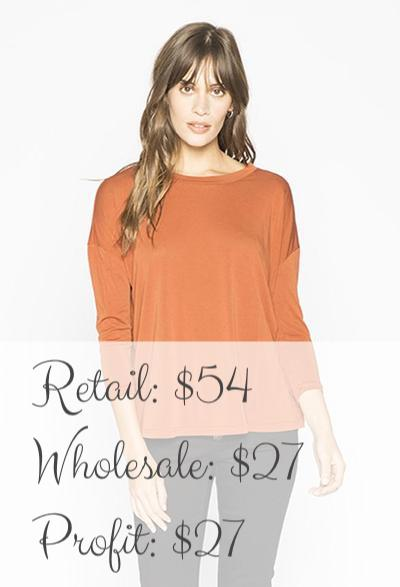
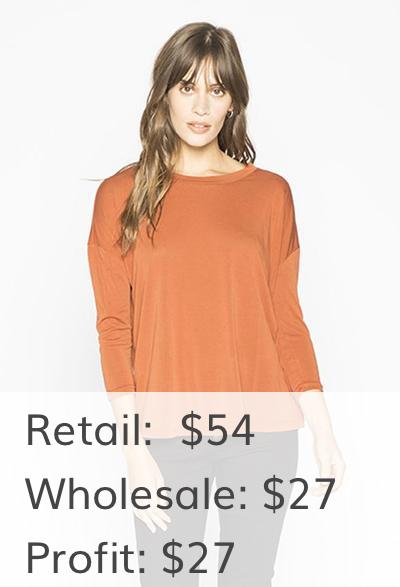
Update Sonlet Shops Template
- Changes the font of the text overlay on the images
- Changes the CTA to be more clear
- Adds a tagline under the logo
- Changes sweaters to layers in href & hero image
- Removes html that was commented out and showing up in yahoo mail

Changed region(s): [[0.06, 0.5826, 0.84, 1.0], [0.66, 0.9813, 0.69, 1.0]]

diff --git a/email_marketing/shops_waitlist/template_shops_email.html b/email_marketing/shops_waitlist/template_shops_email.html
@@ -1,4 +1,6 @@
 <style>
+  @import url('https://fonts.googleapis.com/css?family=Clicker+Script|Muli');
+  
   body {
     color: #111;
     background-color: #f2f2f2;
@@ -10,108 +12,80 @@
   
 </style>
 <body>
-  
-  <style>
-    @import url('https://fonts.googleapis.com/css?family=Clicker+Script|Muli');
-  </style>
   <div id="email-container" style="width: 90%; max-width: 900px; margin: 0 auto; background-color: #ffffff;">
-    <!--Hero Image->
-    <div id="hero-header"style="background-color:#ffffff;border-top:1px solid #ccc;border-bottom:1px solid #ccc;">
-      <img src="https://wyattgrantham.com/marketing/Images/190221_ss_hero.png" style="width: 100%">
-    </div>
-    
-    <!--Hero Subtitle->
-    <div style="margin:0 auto;min-width:320px; max-width: 600px; word-wrap:break-word;word-break:break-word; text-align: center;">
-      <img src="https://wyattgrantham.com/marketing/Images/ss_hero_subtitle.png" style="width: 100%; margin-top: 20px;">
-      
-      <p style="font-family: 'Muli', sans-serif; text-align: center; margin: 0 auto;">Introducing Sonlet's Picks!  Each week we offer our favorite items at specially discounted pricing.  These items will only be featured for 30 days, so act fast!</p>
-      <!--comment->
-      <img src="https://wyattgrantham.com/marketing/Images/red_rose.png" style="width: 20%; text-align: center; margin: 0 auto; margin-top: 10px; margin-bottom: 10px;">
-      <!--/comment->
-      <br>
-      <!--Promo->
-      <a style="border-radius:0;display:inline-block;font-size:20px;font-weight:bold;line-height:22px;padding:10px 20px;text-align:center;text-decoration:none !important;border:1px solid #000000;font-family: 'Muli',sans-serif; margin: 0 auto; color: #000000 !important;" href="https://sonlet.com/shops/_/browse/?l=ZHC4GZvL" target="_blank">FIRST 20 ORDERS ARE FREE</a>
-      <br>
-      <small style="font-family: 'Muli', sans-serif; text-align: center; margin: 0 auto; display: block;">Watch out it will be 30 next week!</small>
-      <!--/Promo->
-    </div><!--/Hero Subtitle-->
-  
     <!--Product Picks-->
     <div style="margin:0 auto;min-width:320px;word-wrap:break-word;word-break:break-word; display: block;">
       <!--Header Image-->
-      <img style="border:0;display:block;height:auto;width:80%;max-width:600px; margin: 0 auto; margin-top: 20px; padding-top: 50px; padding-bottom: 50px;" alt="Cozy up in our Fabulous Sweaters" src="/Images/190221_ss_hero_2_c.png">
+      <img style="border:0;display:block;height:auto;width:80%;max-width:600px; margin: 0 auto; margin-top: 20px; padding-top: 50px; padding-bottom: 50px;" alt="Cozy up in our Fabulous Sweaters" src="https://wyattgrantham.com/marketing/Images/190221_ss_hero_2.png">
 
       <!--Product Group-->
       <div style="text-align:center;font-size:14px;line-height:21px;font-family: 'Muli',sans-serif; margin: 0 auto;">
         <!--Product 1-->
         <div class="product" style="margin-left:20px;margin-right:20px; margin-bottom: 20px; text-align: center; min-height: 240px; display: inline-block; width: 200px;">
-          <a href="https://sonlet.com/shops/_/browse/?l=ZHC4GZvL"\ target="_blank"><img style="border:0;display:block;height:auto;width:100%;max-width:480px;" alt="Heart Sunglasses" width="160" src="https://wyattgrantham.com/marketing/Images/190221_cardigan_plus.jpg"></a>
+          <a href="https://sonlet.com/shops/b/oYBb9vyM/"\ target="_blank"><img style="border:0;display:block;height:auto;width:100%;max-width:480px;" alt="Heart Sunglasses" width="160" src="https://wyattgrantham.com/marketing/Images/190221_cardigan_plus.jpg"></a>
           <h3 style="margin-left:20px;margin-right:20px;margin-top:0;margin-bottom:12px;font-size:15px;line-height:23px;text-align:center; color: #000000;font-weight: bold;">Textured Knit Cardigan</h3>
           
-          <a style="margin: 0 auto; text-align: center; border-radius:0;display:inline-block;font-size:11px;font-weight:bold;line-height:19px;padding:6px 12px;text-align:center;text-decoration:none!important;color:#000000!important;border:1px solid #000000;font-family: 'Muli',sans-serif; margin-bottom: 40px;" href="https://sonlet.com/shops/_/browse/?l=ZHC4GZvL" target="_blank">ADD TO SHOP</a>
+          <a style="margin: 0 auto; text-align: center; border-radius:0;display:inline-block;font-size:11px;font-weight:bold;line-height:19px;padding:6px 12px;text-align:center;text-decoration:none!important;color:#000000!important;border:1px solid #000000;font-family: 'Muli',sans-serif; margin-bottom: 40px;" href="https://sonlet.com/shops/b/oYBb9vyM/" target="_blank">ADD TO SHOP</a>
         </div>
 
         <!--Product 2-->
         <div class="product" style="margin-left:20px;margin-right:20px; margin-bottom: 20px; text-align: center; min-height: 240px; display: inline-block; width: 200px;">
-          <a href="https://sonlet.com/shops/_/browse/?l=ZHC4GZvL" target="_blank"><img style="border:0;display:block;height:auto;width:100%;max-width:480px;" alt="Heart Sunglasses" width="160" src="https://wyattgrantham.com/marketing/Images/190221_mohair_sweater.jpg"></a>
+          <a href="https://sonlet.com/shops/b/oYBb9vyM/" target="_blank"><img style="border:0;display:block;height:auto;width:100%;max-width:480px;" alt="Heart Sunglasses" width="160" src="https://wyattgrantham.com/marketing/Images/190221_mohair_sweater.jpg"></a>
           <h3 style="margin-left:20px;margin-right:20px;margin-top:0;margin-bottom:12px;font-size:15px;line-height:23px;text-align:center; color: #000000;font-weight: bold;">Mohair Sweater</h3>
-          <a style="margin: 0 auto; text-align: center; border-radius:0;display:inline-block;font-size:11px;font-weight:bold;line-height:19px;padding:6px 12px;text-align:center;text-decoration:none!important;color:#000000!important;border:1px solid #000000;font-family: 'Muli',sans-serif; margin-bottom: 40px;" href="https://sonlet.com/shops/_/browse/?l=ZHC4GZvL" target="_blank">ADD TO SHOP</a>
+          <a style="margin: 0 auto; text-align: center; border-radius:0;display:inline-block;font-size:11px;font-weight:bold;line-height:19px;padding:6px 12px;text-align:center;text-decoration:none!important;color:#000000!important;border:1px solid #000000;font-family: 'Muli',sans-serif; margin-bottom: 40px;" href="https://sonlet.com/shops/b/oYBb9vyM/" target="_blank">ADD TO SHOP</a>
         </div>
       
         <!--Product 1-->
         <div class="product" style="margin-left:20px;margin-right:20px; margin-bottom: 20px; text-align: center; min-height: 240px; display: inline-block; width: 200px;">
-          <a href="https://sonlet.com/shops/_/browse/?l=ZHC4GZvL" target="_blank"><img style="border:0;display:block;height:auto;width:100%;max-width:480px;" alt="Heart Sunglasses" width="160" src="https://wyattgrantham.com/marketing/Images/190221_copper_top.jpg"></a>
+          <a href="https://sonlet.com/shops/b/oYBb9vyM/" target="_blank"><img style="border:0;display:block;height:auto;width:100%;max-width:480px;" alt="Heart Sunglasses" width="160" src="https://wyattgrantham.com/marketing/Images/190221_copper_top.jpg"></a>
           <h3 style="margin-left:20px;margin-right:20px;margin-top:0;margin-bottom:12px;font-size:15px;line-height:23px;text-align:center; color: #000000;font-weight: bold;">Take Me Back Top</h3>
 
-          <a style="margin: 0 auto; text-align: center; border-radius:0;display:inline-block;font-size:11px;font-weight:bold;line-height:19px;padding:6px 12px;text-align:center;text-decoration:none!important;color:#000000!important;border:1px solid #000000;font-family: 'Muli',sans-serif; margin-bottom: 40px;" href="https://sonlet.com/shops/_/browse/?l=ZHC4GZvL" target="_blank">ADD TO SHOP</a>
+          <a style="margin: 0 auto; text-align: center; border-radius:0;display:inline-block;font-size:11px;font-weight:bold;line-height:19px;padding:6px 12px;text-align:center;text-decoration:none!important;color:#000000!important;border:1px solid #000000;font-family: 'Muli',sans-serif; margin-bottom: 40px;" href="https://sonlet.com/shops/b/oYBb9vyM/" target="_blank">ADD TO SHOP</a>
         </div>
 
         <!--Product 2-->
         <div class="product" style="margin-left:20px;margin-right:20px; margin-bottom: 20px; text-align: center; min-height: 240px; display: inline-block; width: 200px;">
-          <a href="https://sonlet.com/shops/_/browse/?l=ZHC4GZvL" target="_blank"><img style="border:0;display:block;height:auto;width:100%;max-width:480px;" alt="Heart Sunglasses" width="160" src="https://wyattgrantham.com/marketing/Images/190221_black_flounce_plus.jpg"></a>
+          <a href="https://sonlet.com/shops/b/oYBb9vyM/" target="_blank"><img style="border:0;display:block;height:auto;width:100%;max-width:480px;" alt="Heart Sunglasses" width="160" src="https://wyattgrantham.com/marketing/Images/190221_black_flounce_plus.jpg"></a>
           <h3 style="margin-left:20px;margin-right:20px;margin-top:0;margin-bottom:12px;font-size:15px;line-height:23px;text-align:center; color: #000000;font-weight: bold;">Black Two Tone Plus Size</h3>
-          <a style="margin: 0 auto; text-align: center; border-radius:0;display:inline-block;font-size:11px;font-weight:bold;line-height:19px;padding:6px 12px;text-align:center;text-decoration:none!important;color:#000000!important;border:1px solid #000000;font-family: 'Muli',sans-serif; margin-bottom: 40px;" href="https://sonlet.com/shops/_/browse/?l=ZHC4GZvL" target="_blank">ADD TO SHOP</a>
+          <a style="margin: 0 auto; text-align: center; border-radius:0;display:inline-block;font-size:11px;font-weight:bold;line-height:19px;padding:6px 12px;text-align:center;text-decoration:none!important;color:#000000!important;border:1px solid #000000;font-family: 'Muli',sans-serif; margin-bottom: 40px;" href="https://sonlet.com/shops/b/oYBb9vyM/" target="_blank">ADD TO SHOP</a>
         </div>
 
         <!--Product 1-->
         <div class="product" style="margin-left:20px;margin-right:20px; margin-bottom: 20px; text-align: center; min-height: 240px; display: inline-block; width: 200px;">
-          <a href="https://sonlet.com/shops/_/browse/?l=ZHC4GZvL" target="_blank"><img style="border:0;display:block;height:auto;width:100%;max-width:480px;" alt="Heart Sunglasses" width="160" src="https://wyattgrantham.com/marketing/Images/190221_stripe_sweater.jpg"></a>
+          <a href="https://sonlet.com/shops/b/oYBb9vyM/" target="_blank"><img style="border:0;display:block;height:auto;width:100%;max-width:480px;" alt="Heart Sunglasses" width="160" src="https://wyattgrantham.com/marketing/Images/190221_stripe_sweater.jpg"></a>
           <h3 style="margin-left:20px;margin-right:20px;margin-top:0;margin-bottom:12px;font-size:15px;line-height:23px;text-align:center; color: #000000;font-weight: bold;">Athletic Stripe Sweater</h3>
 
-          <a style="margin: 0 auto; text-align: center; border-radius:0;display:inline-block;font-size:11px;font-weight:bold;line-height:19px;padding:6px 12px;text-align:center;text-decoration:none!important;color:#000000!important;border:1px solid #000000;font-family: 'Muli',sans-serif; margin-bottom: 40px;" href="https://sonlet.com/shops/_/browse/?l=ZHC4GZvL" target="_blank">ADD TO SHOP</a>
+          <a style="margin: 0 auto; text-align: center; border-radius:0;display:inline-block;font-size:11px;font-weight:bold;line-height:19px;padding:6px 12px;text-align:center;text-decoration:none!important;color:#000000!important;border:1px solid #000000;font-family: 'Muli',sans-serif; margin-bottom: 40px;" href="https://sonlet.com/shops/b/oYBb9vyM/" target="_blank">ADD TO SHOP</a>
         </div>
 
         <!--Product 2-->
         <div class="product" style="margin-left:20px;margin-right:20px; margin-bottom: 20px; text-align: center; min-height: 240px; display: inline-block; width: 200px;">
-          <a href="https://sonlet.com/shops/_/browse/?l=ZHC4GZvL" target="_blank"><img style="border:0;display:block;height:auto;width:100%;max-width:480px;" alt="Heart Sunglasses" width="160" src="https://wyattgrantham.com/marketing/Images/190221_hem_top.jpg"></a>
+          <a href="https://sonlet.com/shops/b/oYBb9vyM/" target="_blank"><img style="border:0;display:block;height:auto;width:100%;max-width:480px;" alt="Heart Sunglasses" width="160" src="https://wyattgrantham.com/marketing/Images/190221_hem_top.jpg"></a>
           <h3 style="margin-left:20px;margin-right:20px;margin-top:0;margin-bottom:12px;font-size:15px;line-height:23px;text-align:center; color: #000000;font-weight: bold;">Black Two Tone Hem Top</h3>
-
-          <a style="margin: 0 auto; text-align: center; border-radius:0;display:inline-block;font-size:11px;font-weight:bold;line-height:19px;padding:6px 12px;text-align:center;text-decoration:none!important;color:#000000!important;border:1px solid #000000;font-family: 'Muli',sans-serif;margin-bottom: 40px;" href="https://sonlet.com/shops/_/browse/?l=ZHC4GZvL" target="_blank">ADD TO SHOP</a>
+          <a style="margin: 0 auto; text-align: center; border-radius:0;display:inline-block;font-size:11px;font-weight:bold;line-height:19px;padding:6px 12px;text-align:center;text-decoration:none!important;color:#000000!important;border:1px solid #000000;font-family: 'Muli',sans-serif;margin-bottom: 40px;" href="https://sonlet.com/shops/b/oYBb9vyM/" target="_blank">ADD TO SHOP</a>
         </div>
         
         <!--Promo-->
-        <a style="text-align: center; margin: 0 auto;" href="https://sonlet.com/shops/_/browse/?l=ZHC4GZvL" target="_blank"><img src="/Images/ss_cta.png"></a>
+        <a style="text-align: center; margin: 0 auto;" href="https://sonlet.com/shops/b/oYBb9vyM/" target="_blank"><img src="https://wyattgrantham.com/marketing/Images/ss_cta.png"></a>
+        <p style="font-family: 'Muli', sans-serif; text-align: center; margin: 0 auto; display: block; font-size: 18px;">$100 off the first 20 orders</p>
         <br>
-        <small style="font-family: 'Muli', sans-serif; text-align: center; margin: 0 auto; display: block;">Watch out it will be 30 next week!</small>
         <!--/Promo-->
       </div><!--/Product Group-->
       
     </div><!--/Product Picks-->
     <!--Training-->
-    <div style="margin:0 auto; min-width: 280px;word-wrap:break-word;word-break:break-word; display: block; background-color: #d9d9d9; margin-left: 20px; margin-right: 20px; margin-bottom: 40px; border-radius: 4px; text-align: center;">
+    <div style="margin:0 auto; min-width: 280px;word-wrap:break-word;word-break:break-word; display: block; background-color: #d9d9d9; margin-left: 20px; margin-right: 20px; margin-bottom: 40px; margin-top: 50px; border-radius: 4px; text-align: center;">
       <img src="https://wyattgrantham.com/marketing/Images/ss_training.png" style="border:0;display:block;height:auto;width:80%;max-width:600px; margin: 0 auto; margin-top: 20px;" alt="Come Sell with Us!">
       <p style="font-family: 'Muli', sans-serif; text-align: center; margin: 0 auto; max-width: 600px;">You sell it, We ship it!  Sell great product to your customers without managing inventory.  Earn up to 35% commissions!</p>
       <!--Training Video-->
       <a href="https://support.sonlet.com/support/solutions/articles/16000087859-how-to-setup-sonlet-shops" target="_blank" style="margin: 0 auto; margin-bottom: 20px; margin-top: 20px; text-align: center; display: inline-block; width: 200px;font-family: 'Muli', sans-serif; text-decoration: none;">
-        <img style="border:0;display:block;height:auto;width:100%;max-width:320px;" alt="Heart Sunglasses" src="https://wyattgrantham.com/marketing/Images/how_to_ss.png">
+        <img style="border:0;display:block;height:auto;width:100%;max-width:320px;" alt="Link to How-to Video" src="https://wyattgrantham.com/marketing/Images/how_to_ss.png">
         <h3 style="margin-left:20px;margin-right:20px;margin-top:0;margin-bottom:0px;font-size:15px;line-height:23px;text-align:center; color: #000000;font-weight: bold; font-family: 'Muli', sans-serif !important;">HOW TO SETUP SONLET SHOPS (6:29)</h3>
       </a>
       <a href="https://support.sonlet.com/support/solutions/16000060109" target="_blank" style="margin: 0 auto; margin-left:20px;margin-right:20px; margin-bottom: 20px; margin-top: 20px; padding-bottom:20px; text-align: center; display: block; font-family: 'Muli', sans-serif;  text-decoration: none;">View All Training</a>
-      
-      
     </div><!--/Training-->
     <!--Footer-->
-    <div style="background-image: url(https://wyattgrantham.com/marketing/Images/ss_footer.png); background-position: left; background-repeat: no-repeat;height: 50px; width: 100%;">&nbsp;</div>
+    <div style="background-image: url(/Images/ss_footer.png); background-position: left; background-repeat: no-repeat;height: 50px; width: 100%;">&nbsp;</div>
     
   </div><!--/Email container-->
   </body>
